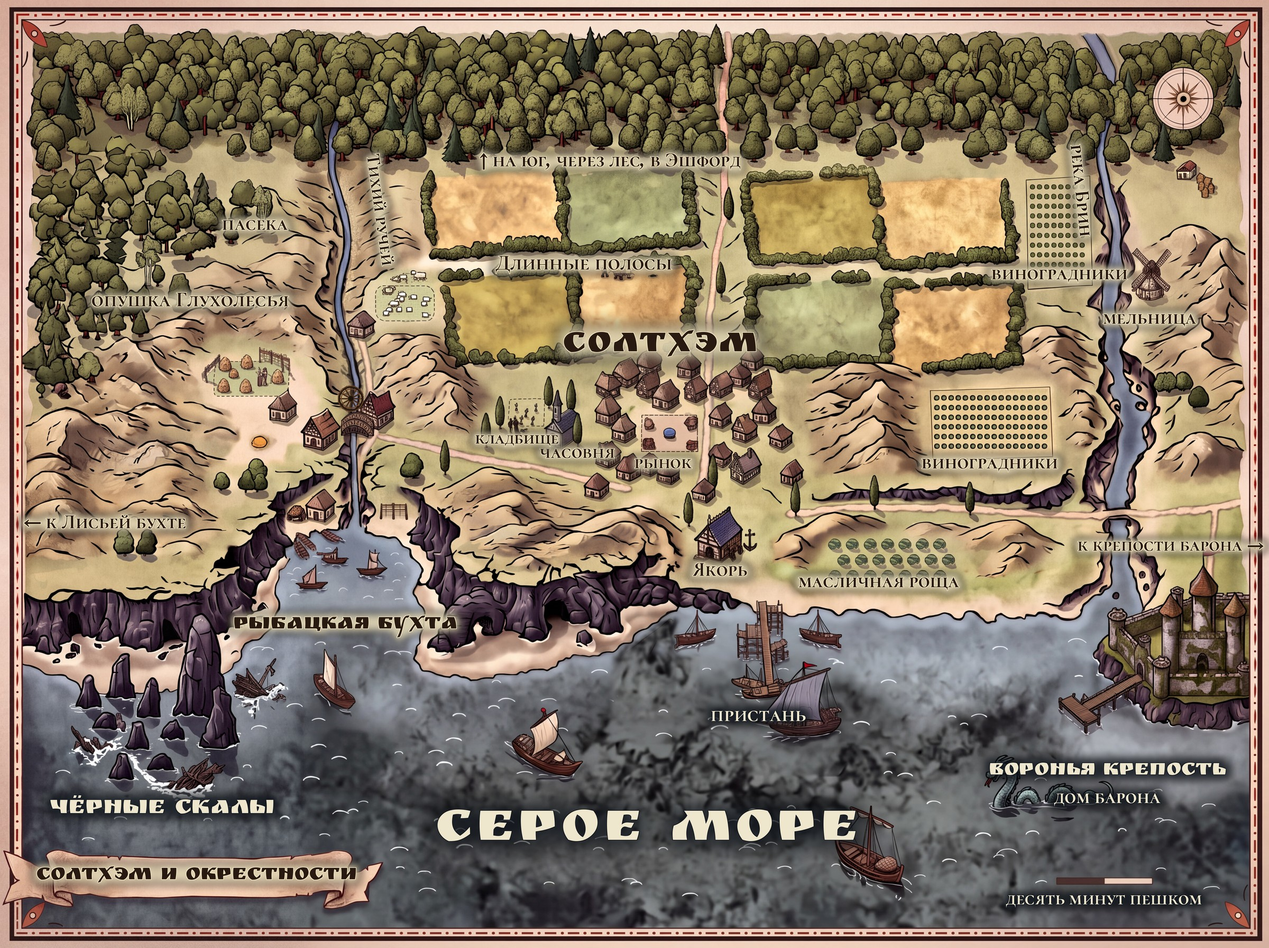
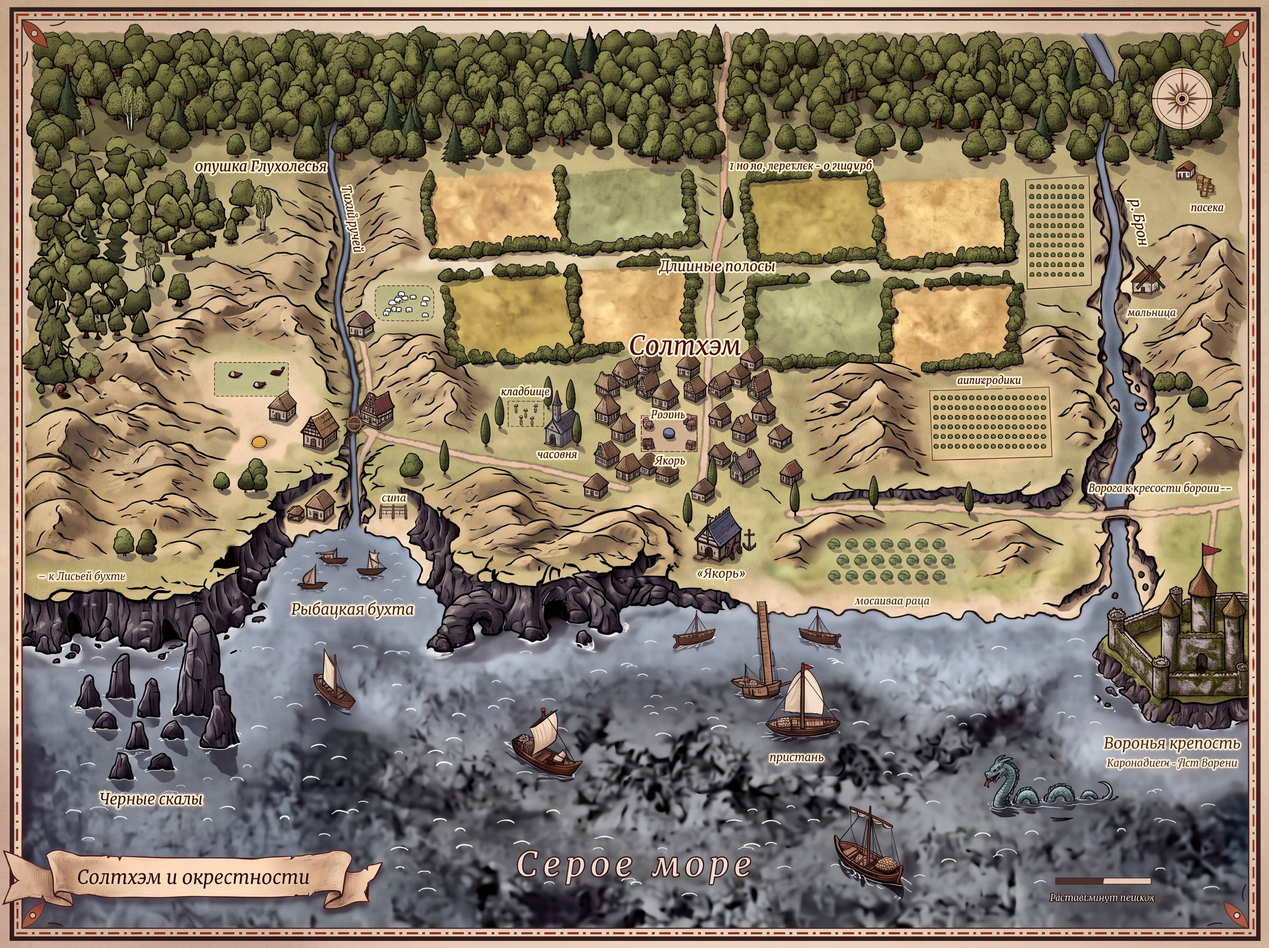
Карта Солтхэма: версия автора встроена; промты карт сохранены в docs/ПРОМТЫ_КАРТ.md (v180)
Claude-Session: https://claude.ai/code/session_01Eezwuv4v9WeozPy4xj1pN6

diff --git a/sw.js b/sw.js
@@ -1,4 +1,4 @@
-const C="zhivoymir-v179";
+const C="zhivoymir-v180";
 const FILES=["./","./index.html","./manifest.json","./icon-192.png","./icon-512.png"];
 self.addEventListener("install",e=>{e.waitUntil(caches.open(C).then(c=>c.addAll(FILES)));self.skipWaiting();});
 self.addEventListener("activate",e=>{e.waitUntil(caches.keys().then(ks=>Promise.all(ks.filter(k=>k!==C).map(k=>caches.delete(k)))));self.clients.claim();});

diff --git a/docs/ПРОМТЫ_КАРТ.md b/docs/ПРОМТЫ_КАРТ.md
@@ -1,0 +1,54 @@
+# Промты для карт мира «Южное побережье»
+
+Для генерации картинок (английский лучше понимается). Подписи на картах нейросети искажают, поэтому в промтах «NO TEXT»: подписи накладываются потом (`tools/maplabels.py`, чистые карты в `presets/maps/clean/`). Всё, чего нет в каноне, здесь придумано и ждёт решения автора.
+
+## Блок стиля (в начало каждого промта)
+```
+Hand-painted medieval fantasy close-up map in the style of Kingdom Come: Deliverance 1 and 2 in-game maps crossed with clean anime-style linework: aged parchment, warm sepia, thick confident ink outlines, soft watercolor shading, charming pictorial miniature buildings, trees and tiny people, muted earthy palette (sand, ochre, olive green, brick-red roofs, slate-grey sea). Slightly oblique bird's-eye view. Thin double decorative border with small corner flourishes, a small compass rose in a corner, an empty scroll banner at the bottom-left. Landscape 4:3. ABSOLUTELY NO TEXT, no letters, no numbers anywhere; leave label areas clean. Negative prompt: text, letters, watermark, photorealistic, 3d render, modern objects, blur.
+```
+
+## 1. Деревня Солтхэм (подробно)
+```
+Detailed map of the village of Saltham, medieval southern coast. A main sandy road runs from the forest in the north through the center to a small stone-and-wood pier in the south. Center: a market square with a stone well, a few stalls with awnings, a small shop with a striped awning beside it. West of the square: a small stone chapel with a slender bell tower and a fenced graveyard with crosses and tall dark cypresses. South near the shore: a larger two-storey tavern with a hanging anchor sign. About 25 cottages of light stone with red clay-tile roofs and a few poor thatched ones, small vegetable gardens, fences, hay carts, chickens and dogs. Long narrow strip fields to the north, vineyards to the east, an olive grove along the coast road. At the far west edge, apart from the village, a lone yard on a narrow stream with a carpenter's workshop with a big water wheel, a hayrick, and a cow paddock. A small fisherman's family house at the fishing bay with nets drying on poles. Warm morning light.
+```
+
+## 2. Двор Уилла (мастерская у ручья)
+```
+Close-up map of a lonely carpenter's yard on the west edge of a village, on the bank of a narrow clear stream. A one-storey stone-and-timber house with a tiled roof and a small porch; next to it a large workshop with a big wooden water wheel in the stream, a millrace, stacks of cut planks, logs, a sawing trestle, a lathe under a lean-to, finished chairs and a half-built boat hull on trestles. A hay loft barn, a fenced paddock with two cows and a brown horse, a vegetable patch, a small orchard, a well, a woodshed. A footbridge across the stream; a dirt path leading east toward the village and a path up to a neighbouring sheep farm. Evening golden light, smoke from the chimney, quiet and lonely mood.
+```
+
+## 3. Рыбацкая бухта (ночь шторма)
+```
+Close-up map of a small rocky fishing bay on a stormy night. A curved bay with a short shingle beach. On the shore a modest family cottage of a fisherman with a vegetable patch and an overturned boat beside it, a boat shed, nets drying on tall poles, barrels and crates. Several rowing boats pulled up on the sand, one boat torn loose and drifting in the surf. A path leads from the bay to the village road and a footpath west along the cliffs toward dark rocks. Heavy grey waves, white foam, wind-bent grass, dark rain clouds shadow, a faint lantern glow in the cottage window. Dramatic moody lighting.
+```
+
+## 4. Часовня Морской Матери и кладбище
+```
+Close-up map of a small seaside chapel on a low hill: stone chapel with a slender bell tower, round window in the front, a wooden door, a small votive shrine with a seashell relief of the Sea Mother. Around it a fenced graveyard with rows of stone and wooden crosses, a few carved memorial stones with ship and wave motifs, tall dark cypresses, a stone well, a low wall with a gate, a path to the village. Sea visible beyond the hill, gulls. Calm peaceful golden-hour light.
+```
+
+## 5. Воронья крепость (план)
+```
+Detailed plan-like map of a baron's coastal fortress on a rocky cape. A stone curtain wall with four round towers with red conical roofs, a central square keep with a dark banner, a gatehouse with a drawbridge over a dry ditch, an inner courtyard with a well, stables, a smithy, a barracks, a small chapel, a granary and a kitchen garden, a covered wall-walk. A private tower window with a balcony facing the sea. A wooden dock with a few boats at the cliff foot, steps cut in the rock, a road winding down toward a distant village. Cliffs and surf on three sides, grey stormy sky. Stern and imposing mood.
+```
+
+## 6. Чёрные скалы и крушение
+```
+Close-up map of a dangerous coast: a cluster of jagged black rocks rising from the sea at the foot of dark cliffs, white surf around them, the broken wreck of a large sailing ship wedged between the rocks with a snapped mast and torn sails, floating barrels, crates, planks and rope scattered over the water, a narrow rocky shore path along the cliff, a few dark cave mouths in the cliffs, a small figure with a lantern on the path and a fisherman's rope coil. Night after a storm, cold blue-grey moonlight, tragic and eerie mood.
+```
+
+## 7. Лисья бухта (хижина Гарета)
+```
+Close-up map of a tiny secluded cove at the edge of the coast, west of the village: a half-hidden tumbledown fisherman's shack with a patched roof, a small wooden shed and a stack of firewood, a rickety jetty, an upturned old boat, a few lobster pots and nets on the rocks, a fox-red patch of scrubland and thorn bushes around, a winding footpath leading east. Quiet, lonely, poor. Soft grey-pink dusk light.
+```
+
+## 8. Цаплиный мыс (осторожно: тайна истории — каменоломня)
+```
+Close-up map of a wild cape a day's ride from the village: a high rocky headland with a windswept heath, herons standing in a shallow marsh at its base, a ruined stone wall, an old grave on a hill facing the sea, a rough cart track coming from the east. On the seaward side, a wide pale scarred slope of cut rock and heaps of dressed stone, a rough ramp, a few ox carts, wooden sheds and a palisade — a hidden quarry. Overcast cold light, a haunted feeling.
+```
+Для карты, которую увидит игрок, убрать последнюю фразу про каменоломню.
+
+## 9. Три Ясеня (хутор Уилла)
+```
+Close-up map of a ruined homestead hidden behind the forest: three tall ash trees standing in a row, the burnt shell of a farmhouse with a blackened chimney and a collapsed roof, a cellar hatch half-hidden in grass in the yard, a broken fence, a small barn, an overgrown vegetable garden and a well. A narrow track coming out of the forest. A single intact wooden door standing alone among the ruins. Late autumn light, ash-grey and ochre palette, melancholy.
+```
